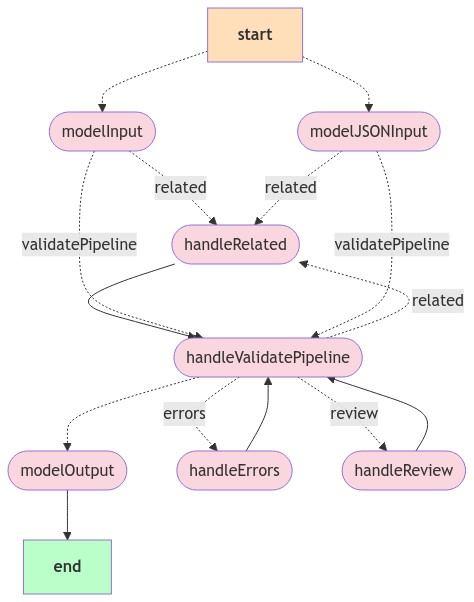
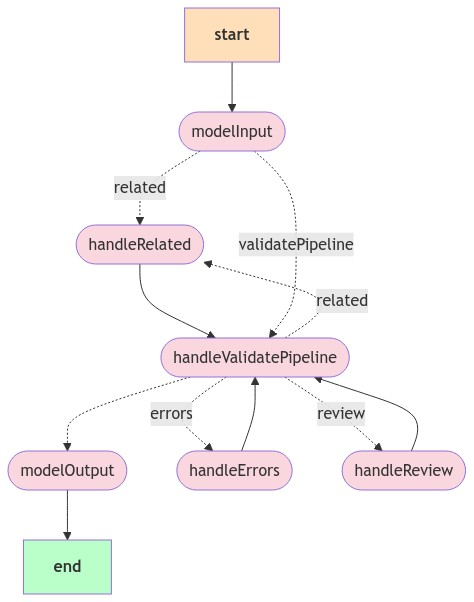
[Automatic Import] Fix yarn draw-graphs command (#198229)
## Summary

Fixes https://github.com/elastic/kibana/issues/196425.

It turns out the reason `yarn draw-graphs` produced the three-box graphs
was because `.withConfig` creates an instance of RunnableInput which does 
not have a good way to draw itself other than as three boxes.

The solution was to makes sure we are calling the original version
without `.withConfig` when drawing the graphs. We still call the new
version when invoking them, as demonstrated by the run names here.

We are now able to generate the correct graphs for all chains.

---------

diff --git a/x-pack/plugins/integration_assistant/scripts/draw_graphs_script.ts b/x-pack/plugins/integration_assistant/scripts/draw_graphs_script.ts
@@ -20,6 +20,8 @@ import { getEcsGraph, getEcsSubGraph } from '../server/graphs/ecs/graph';
 import { getLogFormatDetectionGraph } from '../server/graphs/log_type_detection/graph';
 import { getRelatedGraph } from '../server/graphs/related/graph';
 import { getKVGraph } from '../server/graphs/kv/graph';
+import { getUnstructuredGraph } from '../server/graphs/unstructured';
+import { getCelGraph } from '../server/graphs/cel/graph';
 
 // Some mock elements just to get the graph to compile
 const model = new FakeLLM({
@@ -45,17 +47,20 @@ async function drawGraph(compiledGraph: RunnableGraph, graphName: string) {
   await saveFile(`${graphName}.png`, buffer);
 }
 
+const GRAPH_LIST = {
+  related_graph: getRelatedGraph,
+  log_detection_graph: getLogFormatDetectionGraph,
+  categorization_graph: getCategorizationGraph,
+  kv_graph: getKVGraph,
+  ecs_graph: getEcsGraph,
+  ecs_subgraph: getEcsSubGraph,
+  unstructured_graph: getUnstructuredGraph,
+  cel_graph: getCelGraph,
+};
+
 export async function drawGraphs() {
-  const relatedGraph = (await getRelatedGraph({ client, model })).getGraph();
-  const logFormatDetectionGraph = (await getLogFormatDetectionGraph({ client, model })).getGraph();
-  const categorizationGraph = (await getCategorizationGraph({ client, model })).getGraph();
-  const ecsSubGraph = (await getEcsSubGraph({ model })).getGraph();
-  const ecsGraph = (await getEcsGraph({ model })).getGraph();
-  const kvGraph = (await getKVGraph({ client, model })).getGraph();
-  drawGraph(relatedGraph, 'related_graph');
-  drawGraph(logFormatDetectionGraph, 'log_detection_graph');
-  drawGraph(categorizationGraph, 'categorization_graph');
-  drawGraph(ecsSubGraph, 'ecs_subgraph');
-  drawGraph(ecsGraph, 'ecs_graph');
-  drawGraph(kvGraph, 'kv_graph');
+  for (const [name, graph] of Object.entries(GRAPH_LIST)) {
+    const compiledGraph = (await graph({ client, model })).getGraph();
+    drawGraph(compiledGraph, name);
+  }
 }

diff --git a/x-pack/plugins/integration_assistant/server/graphs/log_type_detection/graph.ts b/x-pack/plugins/integration_assistant/server/graphs/log_type_detection/graph.ts
@@ -118,8 +118,14 @@ export async function getLogFormatDetectionGraph({ model, client }: LogDetection
     .addNode('handleLogFormatDetection', (state: LogFormatDetectionState) =>
       handleLogFormatDetection({ state, model, client })
     )
-    .addNode('handleKVGraph', await getKVGraph({ model, client }))
-    .addNode('handleUnstructuredGraph', await getUnstructuredGraph({ model, client }))
+    .addNode(
+      'handleKVGraph',
+      (await getKVGraph({ model, client })).withConfig({ runName: 'Key-Value' })
+    )
+    .addNode(
+      'handleUnstructuredGraph',
+      (await getUnstructuredGraph({ model, client })).withConfig({ runName: 'Unstructured' })
+    )
     .addNode('handleCSV', (state: LogFormatDetectionState) => handleCSV({ state, model, client }))
     .addEdge(START, 'modelInput')
     .addEdge('modelInput', 'handleLogFormatDetection')
@@ -138,6 +144,6 @@ export async function getLogFormatDetectionGraph({ model, client }: LogDetection
       }
     );
 
-  const compiledLogFormatDetectionGraph = workflow.compile().withConfig({ runName: 'Log Format' });
+  const compiledLogFormatDetectionGraph = workflow.compile();
   return compiledLogFormatDetectionGraph;
 }

diff --git a/x-pack/plugins/integration_assistant/server/graphs/ecs/graph.ts b/x-pack/plugins/integration_assistant/server/graphs/ecs/graph.ts
@@ -78,7 +78,7 @@ export async function getEcsSubGraph({ model }: EcsGraphParams) {
     })
     .addEdge('modelSubOutput', END);
 
-  const compiledEcsSubGraph = workflow.compile().withConfig({ runName: 'ECS Mapping (Chunk)' });
+  const compiledEcsSubGraph = workflow.compile();
   return compiledEcsSubGraph;
 }
 
@@ -96,7 +96,7 @@ export async function getEcsGraph({ model }: EcsGraphParams) {
     .addNode('handleMergedSubGraphResponse', (state: EcsMappingState) =>
       modelMergedInputFromSubGraph({ state })
     )
-    .addNode('subGraph', subGraph)
+    .addNode('subGraph', subGraph.withConfig({ runName: 'ECS Mapping (Chunk)' }))
     .addEdge(START, 'modelInput')
     .addEdge('subGraph', 'handleMergedSubGraphResponse')
     .addEdge('handleDuplicates', 'handleValidation')
@@ -119,6 +119,6 @@ export async function getEcsGraph({ model }: EcsGraphParams) {
     })
     .addEdge('modelOutput', END);
 
-  const compiledEcsGraph = workflow.compile().withConfig({ runName: 'ECS Mapping' });
+  const compiledEcsGraph = workflow.compile();
   return compiledEcsGraph;
 }

diff --git a/x-pack/plugins/integration_assistant/server/routes/analyze_logs_routes.ts b/x-pack/plugins/integration_assistant/server/routes/analyze_logs_routes.ts
@@ -91,7 +91,9 @@ export function registerAnalyzeLogsRoutes(
             logSamples,
           };
           const graph = await getLogFormatDetectionGraph({ model, client });
-          const graphResults = await graph.invoke(logFormatParameters, options);
+          const graphResults = await graph
+            .withConfig({ runName: 'Log Format' })
+            .invoke(logFormatParameters, options);
           const graphLogFormat = graphResults.results.samplesFormat.name;
           if (graphLogFormat === 'unsupported') {
             throw new UnsupportedLogFormatError(GenerationErrorCode.UNSUPPORTED_LOG_SAMPLES_FORMAT);

diff --git a/x-pack/plugins/integration_assistant/server/routes/related_routes.ts b/x-pack/plugins/integration_assistant/server/routes/related_routes.ts
@@ -90,7 +90,9 @@ export function registerRelatedRoutes(router: IRouter<IntegrationAssistantRouteH
           };
 
           const graph = await getRelatedGraph({ client, model });
-          const results = await graph.invoke(parameters, options);
+          const results = await graph
+            .withConfig({ runName: 'Related' })
+            .invoke(parameters, options);
           return res.ok({ body: RelatedResponse.parse(results) });
         } catch (err) {
           try {

diff --git a/x-pack/plugins/integration_assistant/server/routes/categorization_routes.ts b/x-pack/plugins/integration_assistant/server/routes/categorization_routes.ts
@@ -99,7 +99,9 @@ export function registerCategorizationRoutes(
             };
 
             const graph = await getCategorizationGraph({ client, model });
-            const results = await graph.invoke(parameters, options);
+            const results = await graph
+              .withConfig({ runName: 'Categorization' })
+              .invoke(parameters, options);
 
             return res.ok({ body: CategorizationResponse.parse(results) });
           } catch (err) {

diff --git a/x-pack/plugins/integration_assistant/server/routes/ecs_routes.ts b/x-pack/plugins/integration_assistant/server/routes/ecs_routes.ts
@@ -92,7 +92,9 @@ export function registerEcsRoutes(router: IRouter<IntegrationAssistantRouteHandl
           };
 
           const graph = await getEcsGraph({ model });
-          const results = await graph.invoke(parameters, options);
+          const results = await graph
+            .withConfig({ runName: 'ECS Mapping' })
+            .invoke(parameters, options);
 
           return res.ok({ body: EcsMappingResponse.parse(results) });
         } catch (err) {

diff --git a/x-pack/plugins/integration_assistant/server/routes/cel_routes.ts b/x-pack/plugins/integration_assistant/server/routes/cel_routes.ts
@@ -78,7 +78,7 @@ export function registerCelInputRoutes(router: IRouter<IntegrationAssistantRoute
           };
 
           const graph = await getCelGraph({ model });
-          const results = await graph.invoke(parameters, options);
+          const results = await graph.withConfig({ runName: 'CEL' }).invoke(parameters, options);
 
           return res.ok({ body: CelInputResponse.parse(results) });
         } catch (e) {

diff --git a/x-pack/plugins/integration_assistant/server/graphs/unstructured/graph.ts b/x-pack/plugins/integration_assistant/server/graphs/unstructured/graph.ts
@@ -107,6 +107,6 @@ export async function getUnstructuredGraph({ model, client }: UnstructuredGraphP
     .addEdge('handleUnstructuredError', 'handleUnstructuredValidate')
     .addEdge('modelOutput', END);
 
-  const compiledUnstructuredGraph = workflow.compile().withConfig({ runName: 'Unstructured' });
+  const compiledUnstructuredGraph = workflow.compile();
   return compiledUnstructuredGraph;
 }

diff --git a/x-pack/plugins/integration_assistant/server/graphs/cel/graph.ts b/x-pack/plugins/integration_assistant/server/graphs/cel/graph.ts
@@ -104,6 +104,6 @@ export async function getCelGraph({ model }: CelInputGraphParams) {
     .addEdge('handleGetStateVariables', 'handleGetStateDetails')
     .addEdge('handleGetStateDetails', 'modelOutput');
 
-  const compiledCelGraph = workflow.compile().withConfig({ runName: 'CEL' });
+  const compiledCelGraph = workflow.compile();
   return compiledCelGraph;
 }

diff --git a/x-pack/plugins/integration_assistant/server/graphs/categorization/graph.ts b/x-pack/plugins/integration_assistant/server/graphs/categorization/graph.ts
@@ -233,6 +233,6 @@ export async function getCategorizationGraph({ client, model }: CategorizationGr
       }
     );
 
-  const compiledCategorizationGraph = workflow.compile().withConfig({ runName: 'Categorization' });
+  const compiledCategorizationGraph = workflow.compile();
   return compiledCategorizationGraph;
 }

diff --git a/x-pack/plugins/integration_assistant/server/routes/categorization_routes.test.ts b/x-pack/plugins/integration_assistant/server/routes/categorization_routes.test.ts
@@ -23,7 +23,9 @@ const mockResult = jest.fn().mockResolvedValue({
 jest.mock('../graphs/categorization', () => {
   return {
     getCategorizationGraph: jest.fn().mockResolvedValue({
-      invoke: () => mockResult(),
+      withConfig: () => ({
+        invoke: () => mockResult(),
+      }),
     }),
   };
 });
